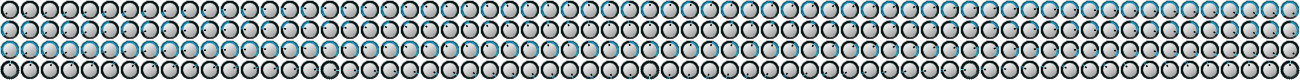
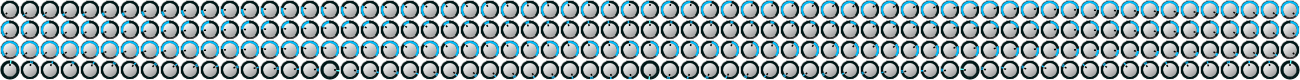
Minor widget improvements

diff --git a/knobs/knob1.py b/knobs/knob1.py
@@ -53,7 +53,7 @@ for variant in range(0, 4):
         thresholdP = midled + 1 + ((phase - midphase - 1) * 1.0 * (nleds - midled - 2) / (phases - midphase - 2))
         thresholdN = midled - 1 - ((midphase - 1 - phase) * 1.0 * (nleds - midled - 2) / (midphase - 1))
         
-        spacing = pi / nleds
+        spacing = pi / nleds * 2
         for led in range(0, nleds):
             if variant == 3:
                 adelta = (eangle - sangle) / (nleds)
